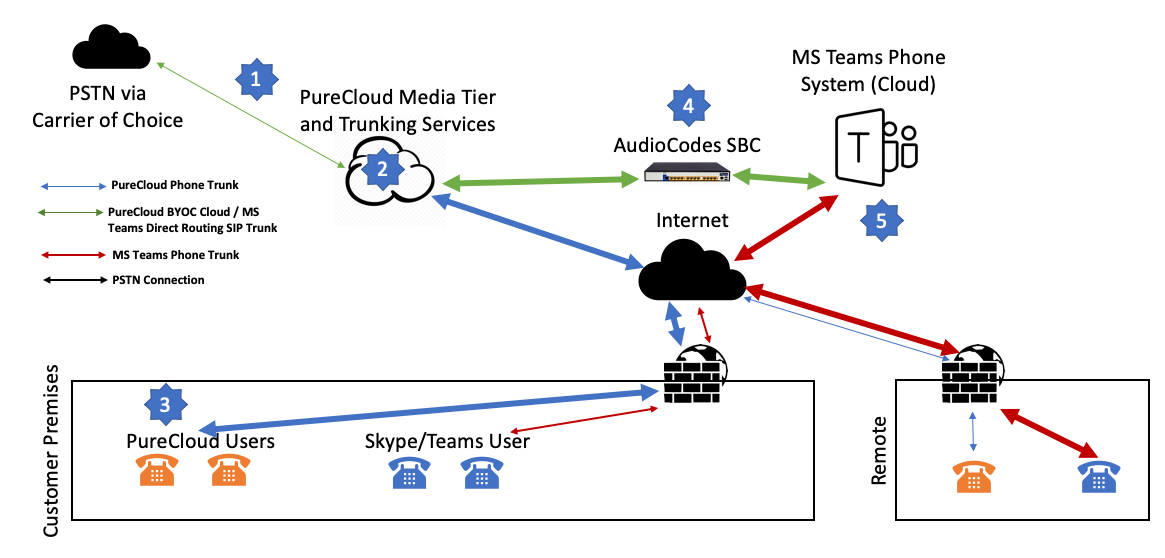
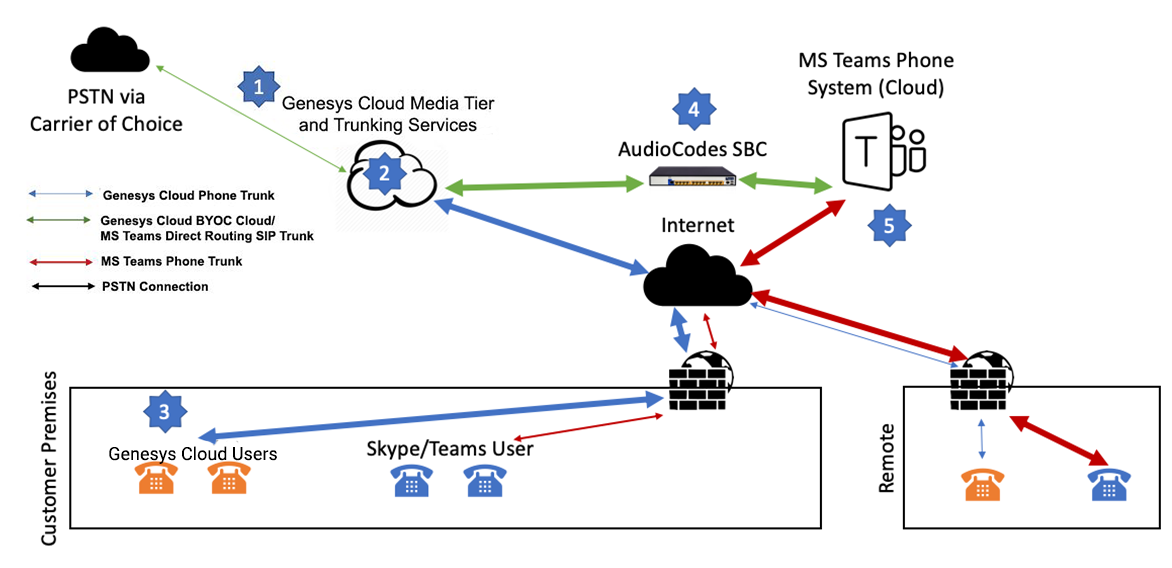
Rebrand: 2019-10-01-ms-teams-integration

diff --git a/source/2019-10-01-ms-teams-integration/index.html.md b/source/2019-10-01-ms-teams-integration/index.html.md
@@ -9,24 +9,24 @@ author: trey.buck@genesys.com
 
 In planning for the impending EOL of Skype and customers’ future adoption of MS Teams, Genesys has entered into an agreement with Microsoft to build integrations between Genesys’ products and MS Teams; more, a [blog post](https://www.microsoft.com/en-us/microsoft-365/blog/2019/07/11/microsoft-teams-reaches-13-million-daily-active-users-introduces-4-new-ways-for-teams-to-work-better-together/) from Microsoft on July 11th, 2019 references Genesys as one of only a select few Contact Center vendors to do so thus far. 
 
-The overall integration between Genesys PureCloud and MS Teams is being built with two main areas of focus: **(1) telephony and call flow integration**, and **(2) application-level integration**.  This post will cover information on the telephony connections, and a subsequent post will discuss the application-level and API integration details. 
+The overall integration between Genesys Cloud and MS Teams is being built with two main areas of focus: **(1) telephony and call flow integration**, and **(2) application-level integration**.  This post will cover information on the telephony connections, and a subsequent post will discuss the application-level and API integration details. 
 
 ## Telephony and Call Flow Integration Architecture 
 
-Due to the established practices of Contact Center and telephony hosting models, there are multiple possible configurations and combinations for the Carrier, PureCloud, and MS Teams/Office 365 that need to be considered as a part of the overall perspective of customer-focused solutions.  The following is a table that outlines the currently recognized possible scenarios (with a legend and additional details beneath):
+Due to the established practices of Contact Center and telephony hosting models, there are multiple possible configurations and combinations for the Carrier, Genesys Cloud, and MS Teams/Office 365 that need to be considered as a part of the overall perspective of customer-focused solutions.  The following is a table that outlines the currently recognized possible scenarios (with a legend and additional details beneath):
 
-![PureCloud MS Teams Telephony Configurations](PureCloud_MSTeams_Telephony_Configs.png)
+![Genesys Cloud MS Teams Telephony Configurations](PureCloud_MSTeams_Telephony_Configs.png)
 
 <div style="text-align: center">
 
-_Table of Possible Carrier/PSTN Source, PureCloud Hosting, and MS Teams Hosting Configurations_
+_Table of Possible Carrier/PSTN Source, Genesys Cloud Hosting, and MS Teams Hosting Configurations_
 
 </div>
 
 * Carrier/PSTN Source – represents where the call is sourced from the PSTN 
-	* PureCloud (PCV) - PureCloud Voice as carrier [link](https://help.mypurecloud.com/articles/about-purecloud-voice/) 
+	* Genesys Cloud (PCV) - Genesys Cloud Voice as carrier [link](https://help.mypurecloud.com/articles/about-purecloud-voice/) 
 	* MS Teams (Calling Plans) - Microsoft O365 as carrier [link](https://docs.microsoft.com/en-us/microsoftteams/calling-plans-for-office-365) 
-* PureCloud – represents how PureCloud is hosted 
+* Genesys Cloud – represents how Genesys Cloud is hosted 
 	* BYOC-Cloud [link](https://help.mypurecloud.com/articles/about-byoc-cloud/) 
 	* BYOC-Premises [link](https://help.mypurecloud.com/articles/about-byoc-premises/) 
 * MS Teams – represents how MS Teams is hosted 
@@ -37,64 +37,64 @@ _Note that the term ‘Direct Routing’ is also used by Microsoft to represent 
 
 The items that are struck through are not possible due to competing carrier and/or hosting requirements. 
 
-While the end goal is provide support for all possible configurations of cloud- and/or premises-based hosting, the initial telephony integrations will be focused on PureCloud Voice (PCV) and PureCloud BYOC-Cloud options combined with a cloud-based MS Teams hosting model (rows 1 and 2 in the table above).  Telephony architecture diagrams for these configurations are represented below:
+While the end goal is provide support for all possible configurations of cloud- and/or premises-based hosting, the initial telephony integrations will be focused on Genesys Cloud Voice (PCV) and Genesys Cloud BYOC-Cloud options combined with a cloud-based MS Teams hosting model (rows 1 and 2 in the table above).  Telephony architecture diagrams for these configurations are represented below:
 
-![PureCloud PCV + MS Teams (Cloud) w/ Cloud SBC](PCV_MSTeams_CloudSBC.png)
+![Genesys Cloud PCV + MS Teams (Cloud) w/ Cloud SBC](PCV_MSTeams_CloudSBC.png)
 
-![PureCloud BYOC + MS Teams (Cloud) w/ Cloud SBC](PureCloudBYOC_MSTeams_CloudSBC.png)
+![Genesys Cloud BYOC + MS Teams (Cloud) w/ Cloud SBC](PureCloudBYOC_MSTeams_CloudSBC.png)
 
-Microsoft requires that [all intermediary SBCs be certified for Direct Routing](https://docs.microsoft.com/en-us/microsoftteams/direct-routing-border-controllers) and to start PureCloud’s AWS-based SBCs/edges will not be certified; this means we’ll be relying on our partners at [AudioCodes](https://www.audiocodes.com/) to provide an Azure-based, Microsoft-certified SBC for the initial implementation and potentially expanding to other providers over time.  Over the coming months, we will work with Microsoft to certify our edges and ultimately look to provide a direct connection to MS Teams’ Phone System for customers that prefer this solution as shown below:
+Microsoft requires that [all intermediary SBCs be certified for Direct Routing](https://docs.microsoft.com/en-us/microsoftteams/direct-routing-border-controllers) and to start Genesys Cloud’s AWS-based SBCs/edges will not be certified; this means we’ll be relying on our partners at [AudioCodes](https://www.audiocodes.com/) to provide an Azure-based, Microsoft-certified SBC for the initial implementation and potentially expanding to other providers over time.  Over the coming months, we will work with Microsoft to certify our edges and ultimately look to provide a direct connection to MS Teams’ Phone System for customers that prefer this solution as shown below:
 
 ![PCV + MS Teams (Cloud) w/o Cloud SBC](PCV_MSTeams_NoSBC.png)
 
 The benefit of all the referenced configurations is that transferring calls between applications will be possible without requiring callers to be sent back to the PSTN, ensuring a smoother and more efficient caller experience while controlling potential telephony costs.
 
-## Example Scenario: Inbound Call to PureCloud Agent and Transfer to Remote MS Teams User
+## Example Scenario: Inbound Call to Genesys Cloud Agent and Transfer to Remote MS Teams User
 
-Let’s take an example where a PureCloud Agent wants to help a customer by connecting them with a business user within their broader organization: 
+Let’s take an example where a Genesys Cloud Agent wants to help a customer by connecting them with a business user within their broader organization: 
 
-1.)	Inbound Call to PureCloud from BYOC-Cloud Carrier
-2.) PureCloud IVR Flow Selection and Agent Routing Through ACD Queue
-3.) PureCloud Identifies Agent from Queue and Connects Customer Through to PureCloud Agent 
-4.) PureCloud Agent Searches for and Identifies an MS Teams User 
-5.) PureCloud Agent Consults with MS Teams User 
-6.) PureCloud Agent Transfers Call to MS Teams User and Disconnect
+1.)	Inbound Call to Genesys Cloud from BYOC-Cloud Carrier
+2.) Genesys Cloud IVR Flow Selection and Agent Routing Through ACD Queue
+3.) Genesys Cloud Identifies Agent from Queue and Connects Customer Through to Genesys Cloud Agent 
+4.) Genesys Cloud Agent Searches for and Identifies an MS Teams User 
+5.) Genesys Cloud Agent Consults with MS Teams User 
+6.) Genesys Cloud Agent Transfers Call to MS Teams User and Disconnect
 
-### Step 1: Inbound Call to PureCloud from BYOC-Cloud Carrier 
-**Suzy** is looking for information on her taxes from the prior year.  She calls into B&L Financial Services and reaches a PureCloud IVR.
+### Step 1: Inbound Call to Genesys Cloud from BYOC-Cloud Carrier 
+**Suzy** is looking for information on her taxes from the prior year.  She calls into B&L Financial Services and reaches a Genesys Cloud IVR.
 
 ![Leg1](Leg1.png)
 
-### Step 2: PureCloud IVR Flow Selection and Agent Routing Through ACD Queue 
-Suzy selects option #3 related to tax inquiries and is routed to a PureCloud ‘Tax’ queue.
+### Step 2: Genesys Cloud IVR Flow Selection and Agent Routing Through ACD Queue 
+Suzy selects option #3 related to tax inquiries and is routed to a Genesys Cloud ‘Tax’ queue.
 
 ![Leg2](Leg2.png)
 
-### Step 3: PureCloud Identifies Agent from Queue and Connects Customer Through to PureCloud Agent
+### Step 3: Genesys Cloud Identifies Agent from Queue and Connects Customer Through to Genesys Cloud Agent
 **Ben** is the Agent located in B&L’s offices that is assigned to Suzy’s call, and they begin talking about Suzy’s questions. Ben and Suzy discuss for a few moments, and Ben discovers Suzy has an intricate question about capital gains that he cannot answer.  Ben decides he needs to bring in help from a tax specialist, and he knows **Alex** in Accounting (who works from home) will be able to help.
 
 ![Leg3](Leg3.png)
 
-### Step 4: PureCloud Agent Searches for and Identifies an MS Teams User 
-Ben places Suzy on hold for a few moments.  Meanwhile, Ben searches for ‘Alex’ within PureCloud and retrieves a listing of all relevant users.  Ben selects the correct Alex from the list and opts to [Consult](https://help.mypurecloud.com/articles/transfer-call/) with Alex prior to bringing Suzy into the call with Alex. 
+### Step 4: Genesys Cloud Agent Searches for and Identifies an MS Teams User 
+Ben places Suzy on hold for a few moments.  Meanwhile, Ben searches for ‘Alex’ within Genesys Cloud and retrieves a listing of all relevant users.  Ben selects the correct Alex from the list and opts to [Consult](https://help.mypurecloud.com/articles/transfer-call/) with Alex prior to bringing Suzy into the call with Alex. 
 
 ![Leg4](Leg4.png)
 
-### Step 5: PureCloud Agent Consults with MS Teams User 
+### Step 5: Genesys Cloud Agent Consults with MS Teams User 
 Ben tells Alex that Suzy has a question about capital gains impact on her taxes and provides additional context for her inquiry.  Alex agrees to accept the call transfer and help Suzy with her question. 
 
 ![Leg5](Leg5.png)
 
-### Step 6: PureCloud Agent Transfers Call to MS Teams User and Disconnects 
+### Step 6: Genesys Cloud Agent Transfers Call to MS Teams User and Disconnects 
 Ben transfers the call to all participants, lets Suzy know that Alex will be helping her going forward, Alex confirms he is on the line and Ben disconnects from the call.  Alex helps answer Suzy’s questions going forward without Ben.
 
 ![Leg6](Leg6.png)
 
-The above example is a very real, tangible scenario that happens every day in customers’ organizations and we are building the integration to support situations exactly like this.  And because Genesys is building the integration directly, rich features of PureCloud like call recording settings and interaction analytics will be supported in the same way they are today for calls that traverse bidirectionally between PureCloud and MS Teams users. 
+The above example is a very real, tangible scenario that happens every day in customers’ organizations and we are building the integration to support situations exactly like this.  And because Genesys is building the integration directly, rich features of Genesys Cloud like call recording settings and interaction analytics will be supported in the same way they are today for calls that traverse bidirectionally between Genesys Cloud and MS Teams users. 
 
 ## Long Term Plan
 
-Above I mentioned the ability for PureCloud users to search for, see presence, and transfer calls to MS Teams users represents the initial first phase of integration between the two platforms.  As Microsoft continues to develop the capabilities of MS Teams, we plan to enhance the integration over time to increase the value that shared Microsoft and Genesys customer derive from both products. 
+Above I mentioned the ability for Genesys Cloud users to search for, see presence, and transfer calls to MS Teams users represents the initial first phase of integration between the two platforms.  As Microsoft continues to develop the capabilities of MS Teams, we plan to enhance the integration over time to increase the value that shared Microsoft and Genesys customer derive from both products. 
 
 Subsequent phases of integration could include: 
 
@@ -103,6 +103,6 @@ Subsequent phases of integration could include:
 * Chat and video collaboration/synchronization 
 * Team/group synchronization 
 * Document collaboration 
-* Embedding either platforms’ UI within the other to enable additional capabilities (similar to the [PureCloud Embeddable Framework](https://developer.mypurecloud.com/api/embeddable-framework/index.html) approach) 
+* Embedding either platforms’ UI within the other to enable additional capabilities (similar to the [Genesys Cloud Embeddable Framework](https://developer.mypurecloud.com/api/embeddable-framework/index.html) approach) 
 
-As we continue to build the connections between the applications we intend to work closely with Microsoft and PureCloud customers to understand what aspects of integration are most important and work towards the best user experience and unified solution possible.  Stay tuned for more information and progress updates! 
+As we continue to build the connections between the applications we intend to work closely with Microsoft and Genesys Cloud customers to understand what aspects of integration are most important and work towards the best user experience and unified solution possible.  Stay tuned for more information and progress updates! 
